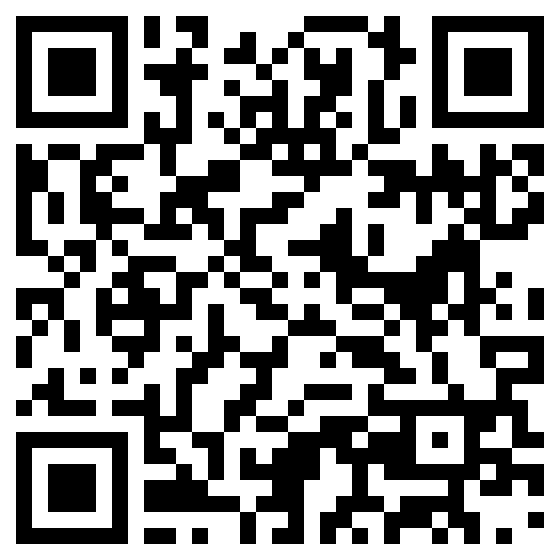
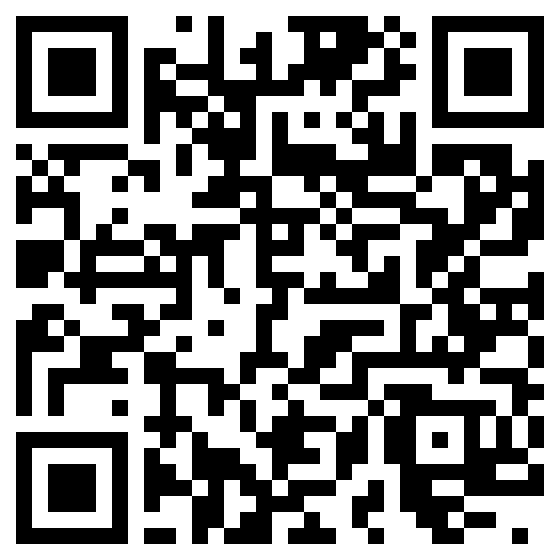
Fix iPhone link

diff --git a/README.md b/README.md
@@ -21,7 +21,7 @@ Once you have the app, you can just connect to the motorcycle's Wi-Fi (iOS netwo
 
 ## I am an iOS user
 
-Well, there is some trickery. While you can still use the QR-code above or just [follow the link](https://apps.apple.com/cn/app/亿连lite/id1584935761), it won't open the App Store, because at the moment the app is only available in mainland China, unfortunately. So you have to create another Apple ID in your country region, then (and only then!) change the App Store region to mainland China.
+Well, there is some trickery. While you can still use the QR-code above or just [follow the link](https://apps.apple.com/cn/app/驾驶伴侣/id1308698895), it won't open the App Store, because at the moment the app is only available in mainland China, unfortunately. So you have to create another Apple ID in your country region, then (and only then!) change the App Store region to mainland China.
 
 To install the app on the iOS device, you need to log in the App Store with the new chinese account you just created. There is no need to remove the entire Apple ID, so you can keep your device perfectly operational, with all the pictures and apps in place. From the iOS device, open the Settings app -> Apple ID -> tap the Media & Purchases to Log Out from the App Store. Once you did that, open the App Store app and log in with the chinese account you have created. Then you can follow the link (I have also [QR code](2.ios-app-link.png) for that) to download the app from the App Store. With the app installed, you can again use the Settings app to relogin App Store account with your normal Apple ID.
 
